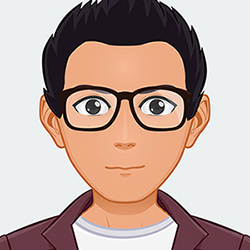
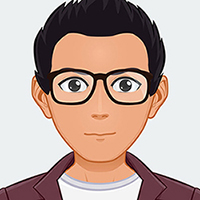
team pic resize to 200x200

diff --git a/index.html b/index.html
@@ -314,8 +314,8 @@
         <div class="row section-header" data-aos="fade-up">
             <div class="col-full">
                 <h3 class="subhead">Our Credentials</h3>
-                <h1 class="display-1">We are one of the most widely recognized startups in international competitions
-                    and hackathons.</h1>
+                <h1 class="display-1">We are one of the hottest Artificial Intelligence companies widely recognized in
+                    international competitions and hackathons.</h1>
             </div>
         </div> <!-- end section-header -->
 
@@ -615,7 +615,9 @@
                                     </div>
                                     <div class="team_info text-center">
                                         <h3>Winson Luk</h3>
-                                        <p>Co-Founder & CEO</p>
+                                        <p>Co-Founder &
+                                            <br />
+                                            CEO</p>
                                         <div class="social_link">
                                             <ul>
                                                 <li><a href="https://www.linkedin.com/in/wing-san-luk-517766ab/">
@@ -638,8 +640,8 @@
                                     </div>
                                     <div class="team_info text-center">
                                         <h3>Shaun Tsoi</h3>
-                                        <p>Co-Founder & 
-                                            <br /> 
+                                        <p>Co-Founder &
+                                            <br />
                                             Principal Project Manager</p>
                                         <div class="social_link">
                                             <ul>
@@ -659,8 +661,8 @@
                                     </div>
                                     <div class="team_info text-center">
                                         <h3>Patrick Lam</h3>
-                                        <p>Co-Founder & 
-                                            <br /> 
+                                        <p>Co-Founder &
+                                            <br />
                                             Principal Strategy Consultant</p>
                                         <div class="social_link">
                                             <ul>
@@ -680,8 +682,8 @@
                                     </div>
                                     <div class="team_info text-center">
                                         <h3>Samson Lam</h3>
-                                        <p>Co-Founder & 
-                                            <br /> 
+                                        <p>Co-Founder &
+                                            <br />
                                             Principal Technical Consultant</p>
                                         <div class="social_link">
                                             <ul>
@@ -696,6 +698,17 @@
                             </div>
                         </div>
                         <div class="row">
+                            <div class="col-xl-3 col-lg-3 col-md-4">
+                                <div class="single_team">
+                                    <div class="team_thumb">
+                                        <img src="images/teams/fishball.jpg" alt="">
+                                    </div>
+                                    <div class="team_info text-center">
+                                        <h3>Fishball Yu</h3>
+                                        <p>Solution Architect</p>
+                                    </div>
+                                </div>
+                            </div>
                             <div class="col-xl-3 col-lg-3 col-md-4">
                                 <div class="single_team">
                                     <div class="team_thumb">
@@ -723,33 +736,6 @@
                                     <div class="team_info text-center">
                                         <h3>Dennis Tsang</h3>
                                         <p>Developer</p>
-                                        <!-- <div class="social_link">
-                                            <ul>
-                                                <li><a href="#">
-                                                        <i class="fab fa-linkedin"></i>
-                                                    </a>
-                                                </li>
-                                            </ul>
-                                        </div> -->
-                                    </div>
-                                </div>
-                            </div>
-                            <div class="col-xl-3 col-lg-3 col-md-4">
-                                <div class="single_team">
-                                    <div class="team_thumb">
-                                        <img src="images/teams/fishball.jpg" alt="">
-                                    </div>
-                                    <div class="team_info text-center">
-                                        <h3>Fishball Yu</h3>
-                                        <p>Developer</p>
-                                        <!-- <div class="social_link">
-                                            <ul>
-                                                <li><a href="#">
-                                                        <i class="fab fa-linkedin"></i>
-                                                    </a>
-                                                </li>
-                                            </ul>
-                                        </div> -->
                                     </div>
                                 </div>
                             </div>
@@ -760,15 +746,9 @@
                                     </div>
                                     <div class="team_info text-center">
                                         <h3>Eric So</h3>
-                                        <p>Project Manager & Data Analyst</p>
-                                        <!-- <div class="social_link">
-                                            <ul>
-                                                <li><a href="#">
-                                                        <i class="fab fa-linkedin"></i>
-                                                    </a>
-                                                </li>
-                                            </ul>
-                                        </div> -->
+                                        <p>Project Manager &
+                                            <br />
+                                            Data Analyst</p>
                                     </div>
                                 </div>
                             </div>
@@ -819,7 +799,7 @@
                                     </div>
                                     <div class="team_info text-center">
                                         <h3>Jacky Lo</h3>
-                                        <p>Advisor</p>
+                                        <p>Board Advisor</p>
                                         <div class="social_link">
                                             <ul>
                                                 <li><a href="https://www.linkedin.com/in/jacky-lo-462211a2/">

diff --git a/css/main.css b/css/main.css
@@ -3445,7 +3445,7 @@ html.no-csstransitions .home-content__main {
  * ------------------------------------------------------------------- */
  /* line 1, ../../Arafath/CL/CL October/216. Consulting/HTML/scss/_team.scss */
 .team_area {
-  padding-top: 100px;
+  padding-top: 130px;
   padding-bottom: 100px;
 }
 
@@ -3476,6 +3476,8 @@ html.no-csstransitions .home-content__main {
 .team_area .border_bottom .single_team .team_thumb {
   overflow: hidden;
   margin-bottom: 26px;
+  margin-left: 26px;
+  margin-right: 26px;
   -webkit-border-radius: 10px;
   -moz-border-radius: 10px;
   border-radius: 10px;
